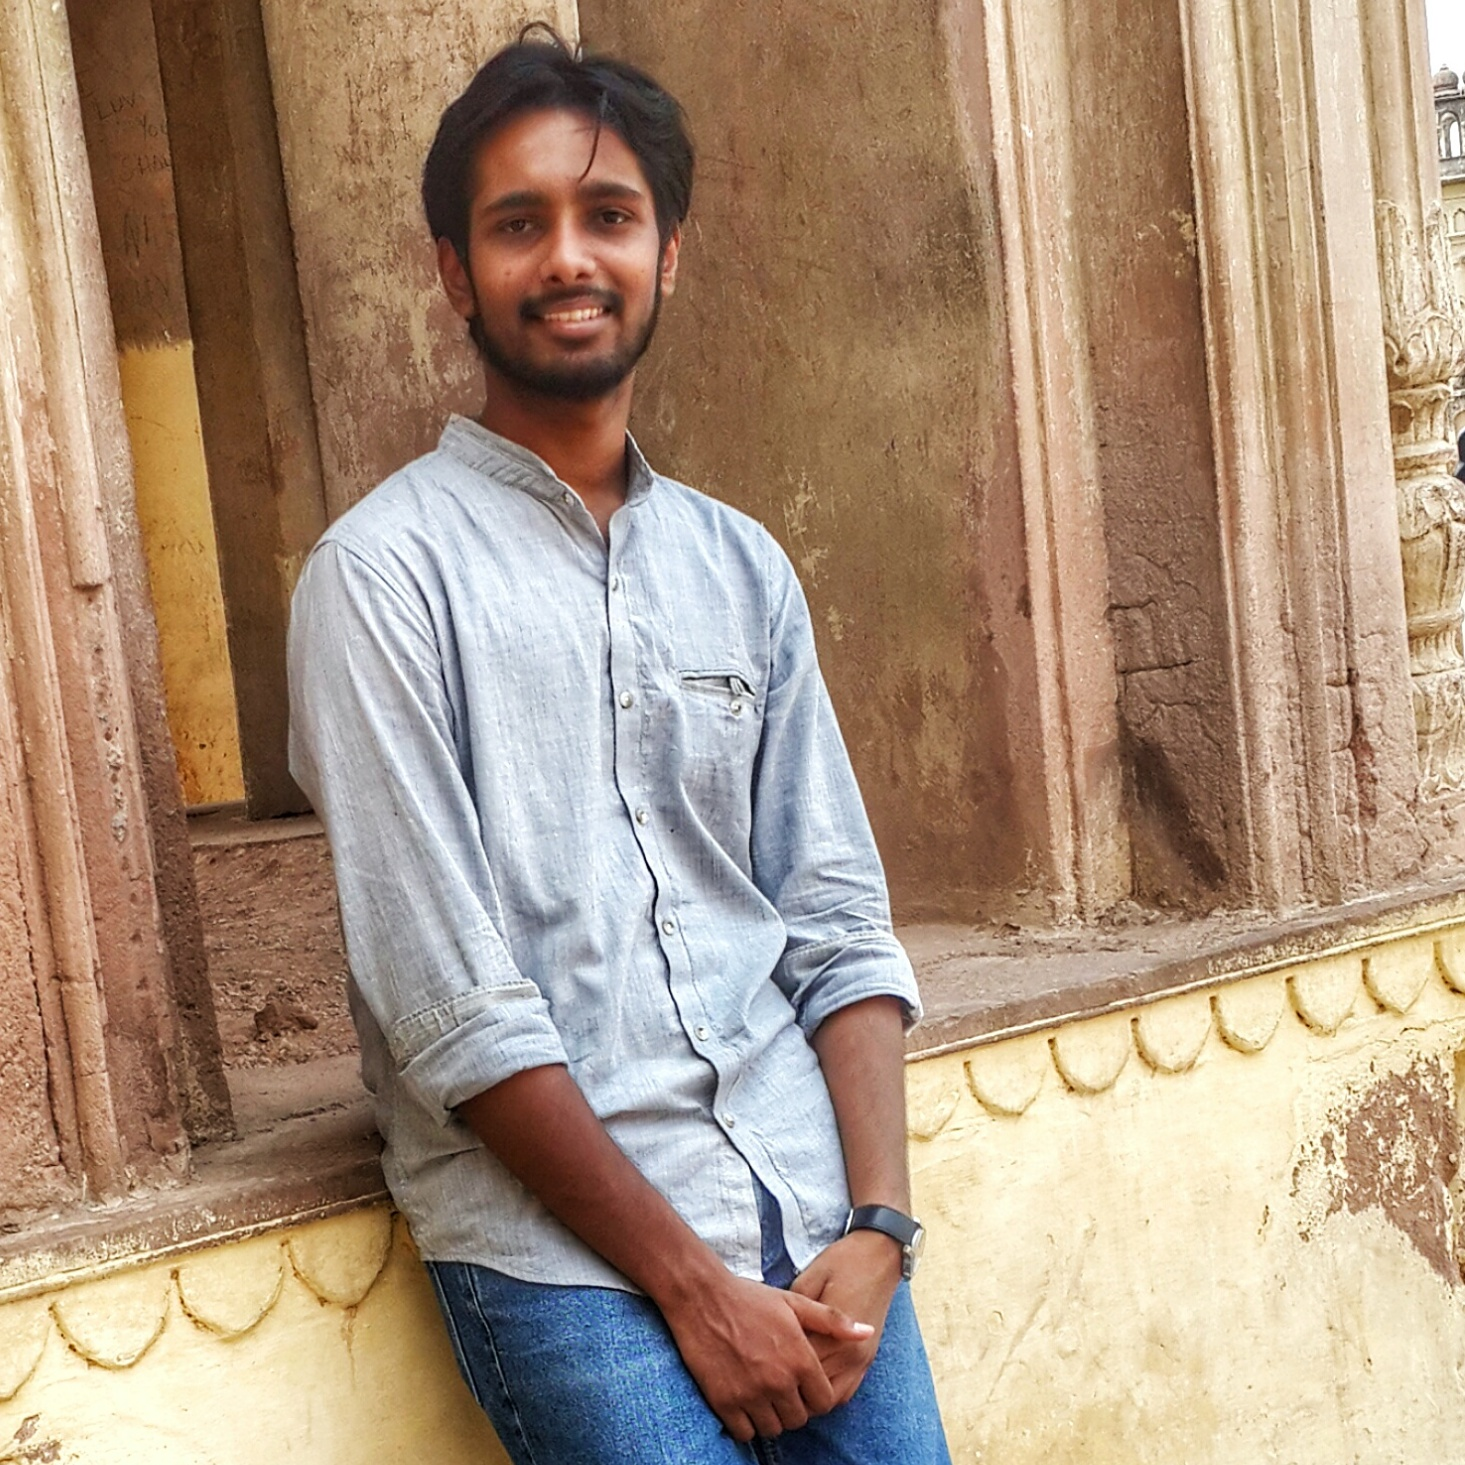
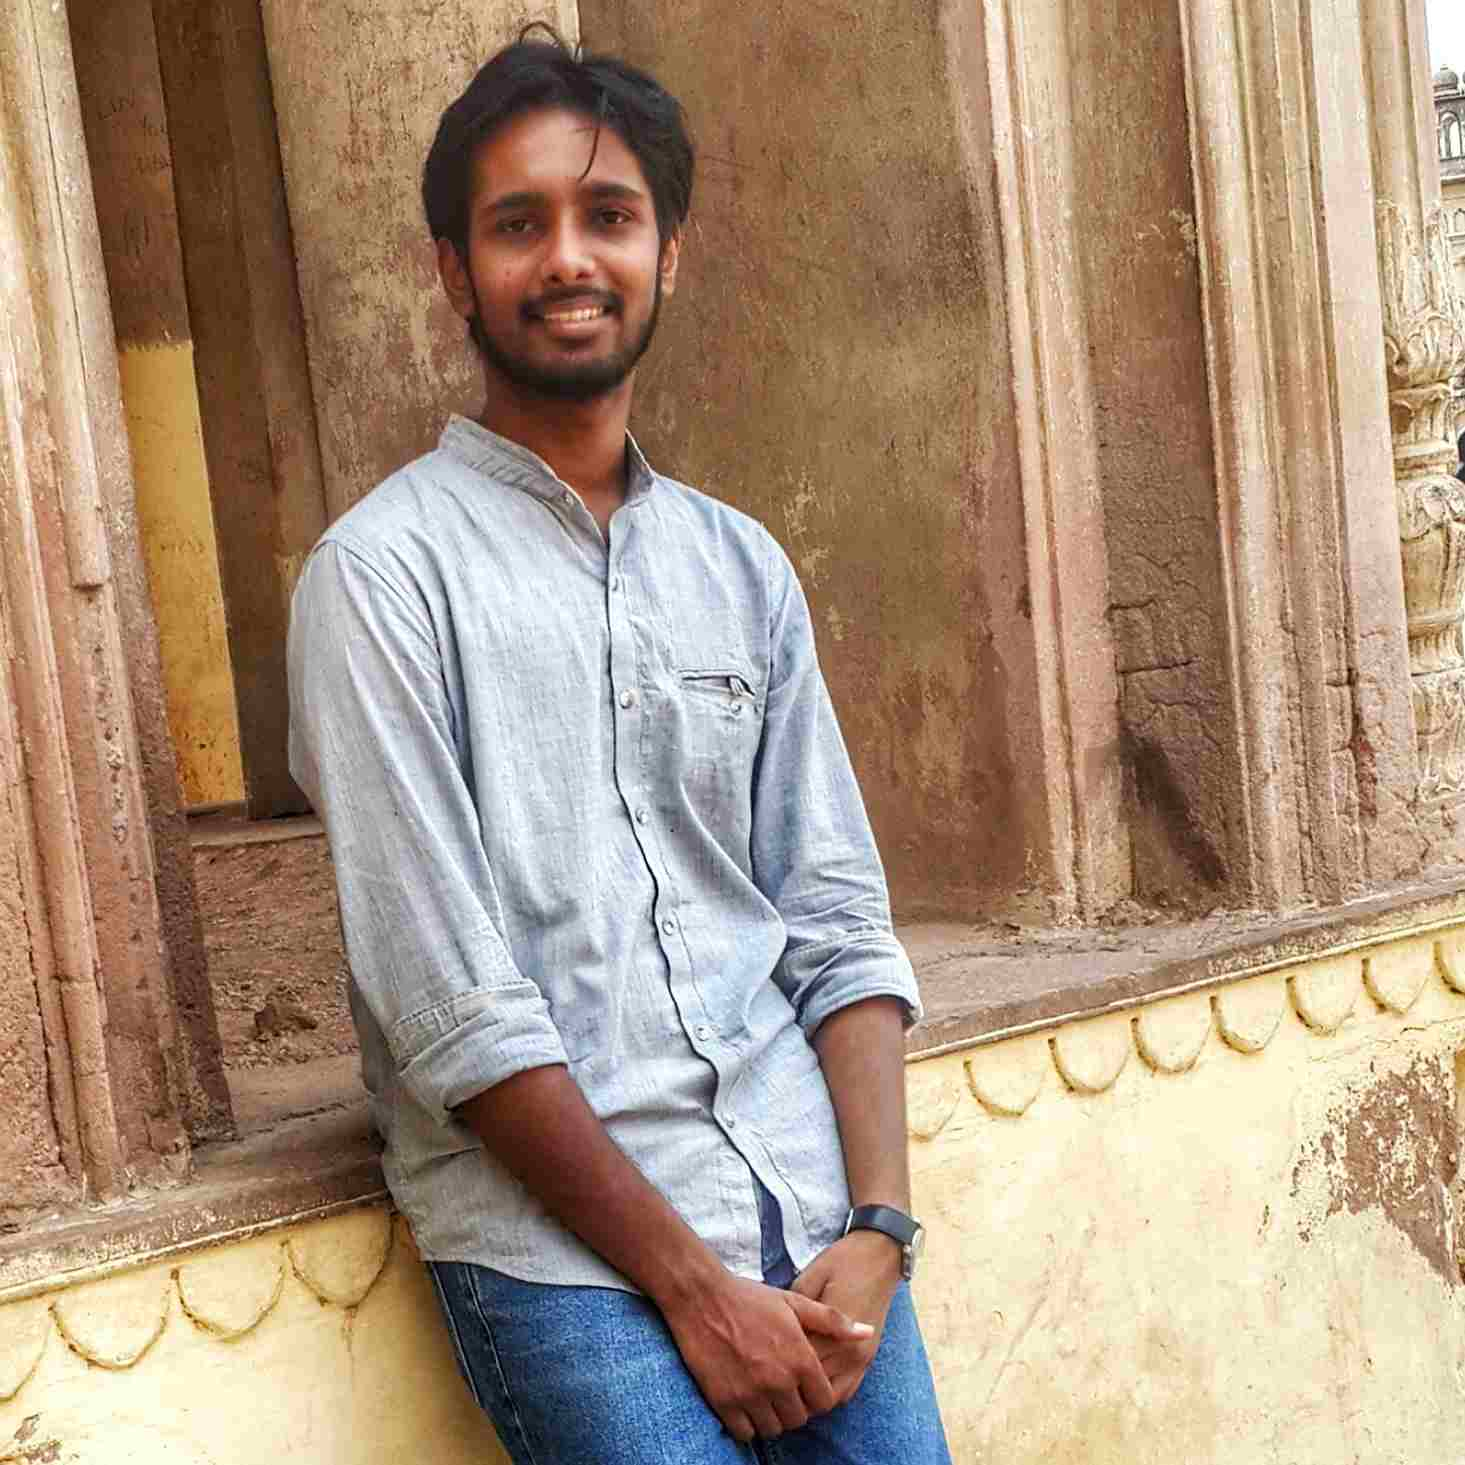
Compressed image and changed some includes

diff --git a/_site/index.html b/_site/index.html
@@ -13,10 +13,10 @@
 	<meta name="author" content="Utkarsh Gupta">
 	<meta name="keywords" content="utkarsh, gupta, personal, jekyll, theme, blog, website">
 	<link rel="canonical" href="http://yourdomain.com/">
-	<link rel="stylesheet" href="assets/css/bootstrap-theme.min.css">
-	<link rel="stylesheet" href="assets/css/bootstrap.min.css">
-	<link rel="stylesheet" href="assets/css/main.css">
-	<link rel="stylesheet" href="assets/css/animate.css">
+	<link rel="stylesheet" href="/assets/css/bootstrap-theme.min.css">
+	<link rel="stylesheet" href="/assets/css/bootstrap.min.css">
+	<link rel="stylesheet" href="/assets/css/main.css">
+	<link rel="stylesheet" href="/assets/css/animate.css">
 	<link rel="stylesheet" href="https://maxcdn.bootstrapcdn.com/font-awesome/4.4.0/css/font-awesome.min.css">
 	<link rel="alternate" type="application/rss+xml" title="{ Utkarsh Gupta }" href="http://yourdomain.com/feed.xml">
 	<link rel="apple-touch-icon" href="apple-touch-icon.png">
@@ -45,19 +45,20 @@
 
 <div class="container-fluid home-header">
 	<img src="assets/img/me.jpg" class="animated bounceIn img-circle img-thumbnail img-responsive center-block" width="150em" height="150em" id="self-photo">
-	<div class="col-lg-6 col-md-6 col-sm-6 col-xs-6 home-header-left">
-		<h1 class="animated fadeInUp pull-right">UTKARSH</h1>
-		<div class='clearfix'></div>
-		<h3 class="pull-right intro-subheading">A man</h3>
-	</div>
-	
-	<div class="col-lg-6 col-md-6 col-sm-6 col-xs-6 home-header-right">
-		<h1 class="animated fadeInUp pull-left" style="color:white"><strong>GUPTA</strong></h1>
-		<div class='clearfix'></div>
-		<h3 class="pull-left intro-subheading element"></h3>
+	<div class="row">
+		<div class="col-lg-6 col-md-6 col-sm-6 col-xs-6 home-header-left">
+			<h1 class="animated fadeInUp pull-right">UTKARSH</h1>
+			<div class='clearfix'></div>
+			<h3 class="pull-right intro-subheading">A man</h3>
+		</div>
+		<div class="col-lg-6 col-md-6 col-sm-6 col-xs-6 home-header-right text-color-right">
+			<h1 class="animated fadeInUp pull-left"><strong>GUPTA</strong></h1>
+			<div class='clearfix'></div>
+			<h3 class="pull-left intro-subheading element"></h3>
+			<div class='clearfix'></div>
+		</div>
 	</div>
 </div>
-
 <script type="text/javascript"></script>
 
     <script src="//ajax.googleapis.com/ajax/libs/jquery/1.11.2/jquery.min.js"></script>

diff --git a/index.html b/index.html
@@ -9,17 +9,18 @@ layout: home
 
 <div class="container-fluid home-header">
 	<img src="{{ "assets/img/me.jpg" | prepend: site.baseurl }}" class="animated bounceIn img-circle img-thumbnail img-responsive center-block" width="150em" height="150em" id="self-photo">
-	<div class="col-lg-6 col-md-6 col-sm-6 col-xs-6 home-header-left">
-		<h1 class="animated fadeInUp pull-right">UTKARSH</h1>
-		<div class='clearfix'></div>
-		<h3 class="pull-right intro-subheading">A man</h3>
-	</div>
-	
-	<div class="col-lg-6 col-md-6 col-sm-6 col-xs-6 home-header-right">
-		<h1 class="animated fadeInUp pull-left" style="color:white"><strong>GUPTA</strong></h1>
-		<div class='clearfix'></div>
-		<h3 class="pull-left intro-subheading element"></h3>
+	<div class="row">
+		<div class="col-lg-6 col-md-6 col-sm-6 col-xs-6 home-header-left">
+			<h1 class="animated fadeInUp pull-right">UTKARSH</h1>
+			<div class='clearfix'></div>
+			<h3 class="pull-right intro-subheading">A man</h3>
+		</div>
+		<div class="col-lg-6 col-md-6 col-sm-6 col-xs-6 home-header-right text-color-right">
+			<h1 class="animated fadeInUp pull-left"><strong>GUPTA</strong></h1>
+			<div class='clearfix'></div>
+			<h3 class="pull-left intro-subheading element"></h3>
+			<div class='clearfix'></div>
+		</div>
 	</div>
 </div>
-
 <script type="text/javascript"></script>

diff --git a/_includes/head.html b/_includes/head.html
@@ -7,10 +7,10 @@
 	<meta name="author" content="{{site.author}}">
 	<meta name="keywords" content="{{site.keywords}}">
 	<link rel="canonical" href="{{ page.url | replace:'index.html','' | prepend: site.baseurl | prepend: site.url }}">
-	<link rel="stylesheet" href="{{ "assets/css/bootstrap-theme.min.css" | prepend: site.baseurl }}">
-	<link rel="stylesheet" href="{{ "assets/css/bootstrap.min.css" | prepend: site.baseurl }}">
-	<link rel="stylesheet" href="{{ "assets/css/main.css" | prepend: site.baseurl }}">
-	<link rel="stylesheet" href="{{ "assets/css/animate.css" | prepend: site.baseurl }}">
+	<link rel="stylesheet" href="{{ "/assets/css/bootstrap-theme.min.css" | prepend: site.baseurl }}">
+	<link rel="stylesheet" href="{{ "/assets/css/bootstrap.min.css" | prepend: site.baseurl }}">
+	<link rel="stylesheet" href="{{ "/assets/css/main.css" | prepend: site.baseurl }}">
+	<link rel="stylesheet" href="{{ "/assets/css/animate.css" | prepend: site.baseurl }}">
 	<link rel="stylesheet" href="https://maxcdn.bootstrapcdn.com/font-awesome/4.4.0/css/font-awesome.min.css">
 	<link rel="alternate" type="application/rss+xml" title="{{ site.title }}" href="{{ "/feed.xml" | prepend: site.baseurl | prepend: site.url }}">
 	<link rel="apple-touch-icon" href="apple-touch-icon.png">

diff --git a/_site/about/index.html b/_site/about/index.html
@@ -10,10 +10,10 @@
 	<meta name="author" content="Utkarsh Gupta">
 	<meta name="keywords" content="utkarsh, gupta, personal, jekyll, theme, blog, website">
 	<link rel="canonical" href="http://yourdomain.com/about/">
-	<link rel="stylesheet" href="assets/css/bootstrap-theme.min.css">
-	<link rel="stylesheet" href="assets/css/bootstrap.min.css">
-	<link rel="stylesheet" href="assets/css/main.css">
-	<link rel="stylesheet" href="assets/css/animate.css">
+	<link rel="stylesheet" href="/assets/css/bootstrap-theme.min.css">
+	<link rel="stylesheet" href="/assets/css/bootstrap.min.css">
+	<link rel="stylesheet" href="/assets/css/main.css">
+	<link rel="stylesheet" href="/assets/css/animate.css">
 	<link rel="stylesheet" href="https://maxcdn.bootstrapcdn.com/font-awesome/4.4.0/css/font-awesome.min.css">
 	<link rel="alternate" type="application/rss+xml" title="{ Utkarsh Gupta }" href="http://yourdomain.com/feed.xml">
 	<link rel="apple-touch-icon" href="apple-touch-icon.png">

diff --git a/assets/css/main.css b/assets/css/main.css
@@ -17,16 +17,20 @@ html, body {
 	padding: 0px;
 }
 
+#body-wrapper>.home-header-left,#body-wrapper>.home-header-right { height: 100%; }
+
 .home-header-left{
 	width: 50%;
-	height: 100%;
 	padding-right: 0.4em;
 }
 
 .home-header-right{
 	width: 50%;
-	height: 100%;
 	padding-left: 0.4em;
+}
+
+.text-color-right{
+  color: white;
 }
 
 #body-wrapper{
